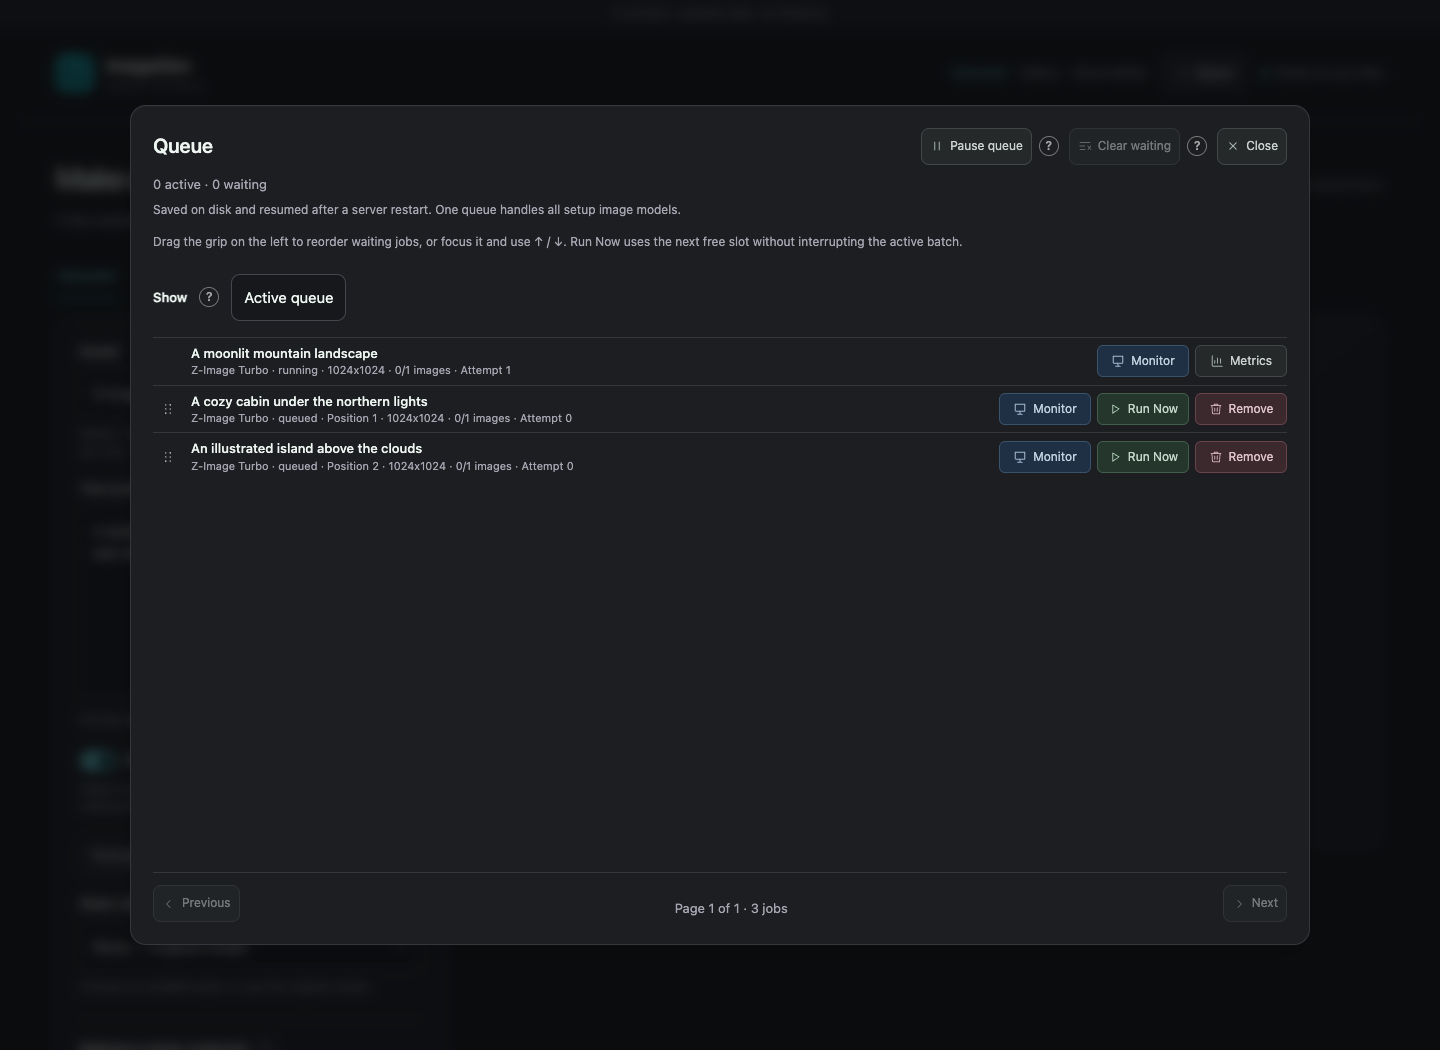
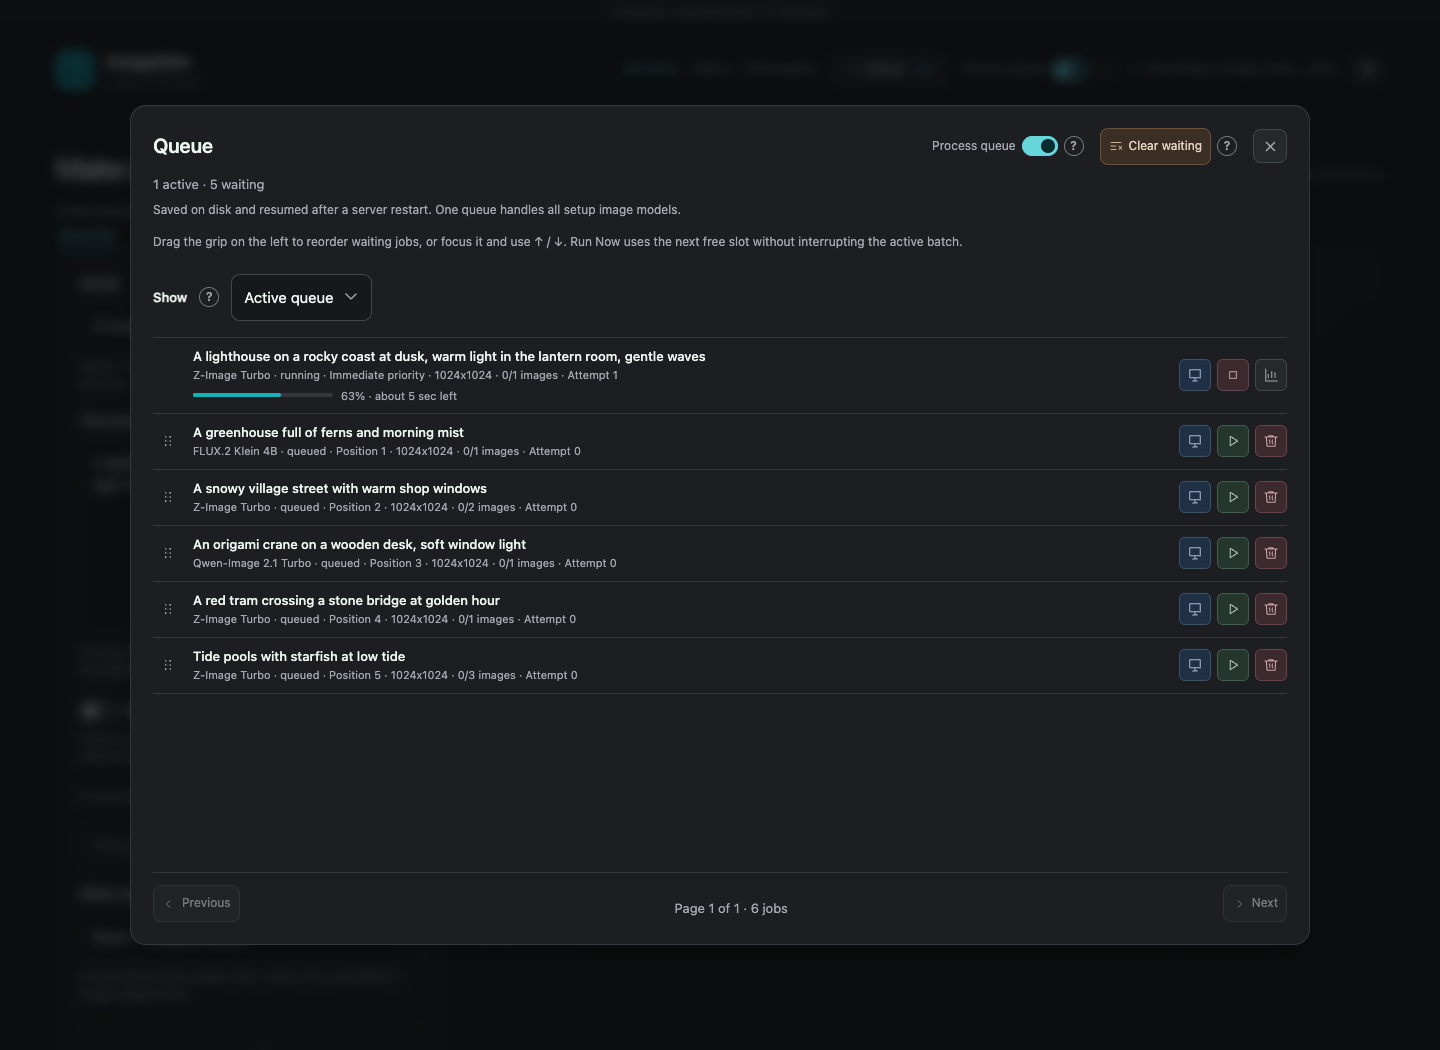
Refresh README, Quick Start and screenshots for today's UI
Document live progress, Live preview, Stop generating, Monitor in a new
tab, the Process queue switch, the Settings gear with Keep image weights
loaded, and the gallery viewer. Regenerate the four approved screenshots
from a fixture run with a fake model and procedural images.

diff --git a/QUICKSTART.md b/QUICKSTART.md
@@ -38,7 +38,7 @@ Keep this terminal open, wait for startup to finish, then open **[http://localho
 
 1. In **Generate**, enter: **A watercolor fox in a snowy forest, soft morning light**.
 2. Choose **Quick draft · 512 × 512**, keep **Number of images** at **1**, and leave the other settings at their defaults.
-3. Click **Generate image**. Follow progress in the preview, then view or download the result. Your image is also saved automatically.
+3. Click **Generate image**. A percentage and time left appear under the preview and in the header. Switch on **Live preview** before generating to watch the image form, or choose **Stop generating** to cancel. When it finishes, view or download the result; it's also saved automatically.
 
 Grey question-mark icons explain the controls. These are the main choices to try next:
 
@@ -49,13 +49,14 @@ Grey question-mark icons explain the controls. These are the main choices to try
 | **Number of images** | Makes 1–5 options with different seeds. |
 | **Prompt expansion** | Adds descriptive detail. Use **Preview expansion** to review it first. |
 | **Different compositions with LLM** | Explores different compositions for a multi-image batch with expansion enabled. |
+| **Live preview** | Shows the image as it renders. Off by default because each preview adds decoding time. |
 | **Generate immediately** | Runs next after the active batch; switch off to join the ordinary queue. |
 
-Open **Queue** in the header to follow jobs, drag waiting items into order or choose **Run Now**. An active batch always finishes first.
+Open **Queue** in the header to see each job's progress, drag waiting jobs into order or choose **Run Now**; an active batch always finishes first. **Monitor** opens a job in a new tab with its prompt and settings filled in. Switch off **Process queue** in the header to pause waiting work. The gear icon opens **Settings**; see the [manual](MANUAL.md#settings) before turning on **Keep image weights loaded between generations**.
 
 ## 4. Find images and edit photos
 
-Open **Gallery** to search by prompt or tags, download results and reuse settings. **Delete image** asks for confirmation. The generator footer shows the default save folder; use **Save location** to choose another folder for a request.
+Open **Gallery** to search by prompt or tags. Click an image or its caption to open it, then download it, reuse its settings or expand it to fill the window. **Delete image** asks for confirmation. The generator footer shows the default save folder; use **Save location** to choose another folder for a request.
 
 To edit a photo, stop the app with Ctrl+C, add an editing model with `make setup MODEL=flux2-klein-4b`, then run `make serve` again. Choose **Edit photo**, select the editor, upload a photo and describe the change. Leave resolution on **Auto** to follow the source size. You can also choose **Edit photo** from a gallery image. See [photo editing](MANUAL.md#edit-an-existing-photo) for Qwen selected-area edits and preservation controls.
 
@@ -78,7 +79,13 @@ IMAGEGEN_JOB_ID="paste-the-returned-id-here"
 curl --fail-with-body "http://localhost:5742/v1/jobs/$IMAGEGEN_JOB_ID"
 ```
 
-When `status` is `succeeded`, open a `result.data[]` image's `url`, or find its saved `file_path`. On failure, read `error`. See the [API reference](docs/api.md) for all settings and endpoints.
+While it runs, `progress.percent` shows how far it has got. When `status` is `succeeded`, open a `result.data[]` image's `url`, or find its saved `file_path`. On failure, read `error`. To cancel a waiting or running job:
+
+```sh
+curl --fail-with-body -X DELETE "http://localhost:5742/v1/jobs/$IMAGEGEN_JOB_ID"
+```
+
+See the [API reference](docs/api.md) for all settings and endpoints.
 
 ## 6. Stop and come back later
 

diff --git a/README.md b/README.md
@@ -2,7 +2,7 @@
 
 Generate and edit images on your Apple Silicon Mac, using a webpage or API. Your models and images stay local, with a gallery to find your favourites and a queue for work you want to run later.
 
-![ImageGen webpage](docs/screenshots/generator.png)
+![ImageGen generator following a running job at 63%, with its live preview](docs/screenshots/generator.png)
 
 ## Get started
 
@@ -22,11 +22,13 @@ Open **[localhost:5742](http://localhost:5742/)** to generate your first image. 
 ## What you can do
 
 - **Generate options:** make 1–5 images from a description and compare the results.
+- **Watch it render:** a percentage and time left show under the preview, in the header and in the queue. Switch on **Live preview** to watch the image form, or choose **Stop generating** to cancel it.
 - **Develop your prompt:** an optional local language model adds detail about lighting, style and composition. Preview its suggestions or turn it off.
-- **Edit photos:** use Klein or Qwen to change an existing image. Qwen also supports selecting an area to edit.
+- **Edit photos:** use Klein or Qwen to change an existing image. With Qwen, paint over the area to change; the model is also told where your selection is.
 - **Try styles:** add compatible LoRA adapters with [`make setup-lora`](MANUAL.md#add-your-own-lora).
-- **Keep your favourites:** search the gallery by prompt or tags, download images, reuse settings or delete unwanted results with confirmation.
-- **Queue work:** save requests for later, drag jobs into order or choose **Run Now**. Waiting work survives restarts.
+- **Keep your favourites:** search the gallery by prompt or tags, open an image to view it fitted or full-window, download it, reuse settings or delete it with confirmation.
+- **Queue work:** save requests for later, drag jobs into order or choose **Run Now**. **Monitor** opens a job in a new tab with its settings filled in. Switch off **Process queue** to pause; waiting work survives restarts.
+- **Save reloads:** the gear icon opens **Settings**. **Keep image weights loaded between generations** keeps FLUX.2 Klein or Qwen-Image in memory for back-to-back images of the same model, then releases it.
 - **See resource use:** view CPU, memory, GPU, job logs and model load/unload history in Observability.
 
 Available models: **Z-Image Turbo**, **Chroma1-HD**, **Chroma1-Flash**, **FLUX.2 Klein 4B/9B** and **Qwen-Image 2.1 Turbo**. Set up the ones you want; the generator switches between them as jobs run. See [model details and licences](docs/setup.md#models-and-effective-settings) before commercial use.
@@ -52,12 +54,12 @@ For AI tools: [operating skill](skill/image-model-server/SKILL.md). For contribu
 <details>
 <summary>More screenshots</summary>
 
-![Compare image options](docs/screenshots/image-options.png)
+![Compare three image options](docs/screenshots/image-options.png)
 
 ![Search the gallery](docs/screenshots/gallery.png)
 
-![Manage the queue](docs/screenshots/queue.png)
+![Queue window with a running job's progress and waiting jobs](docs/screenshots/queue.png)
 
-Generator, gallery and queue screenshots use simulated demo data. The image-options screenshot is from a real Z-Image test; timings are not benchmarks.
+All screenshots use simulated demo data and fake rendering; percentages and timings are not benchmarks.
 
 </details>

diff --git a/MANUAL.md b/MANUAL.md
@@ -152,6 +152,8 @@ The LLM is instructed to keep framing and other details you've explicitly specif
 
 ![Multiple generated options with selectable previews](docs/screenshots/image-options.png)
 
+This screenshot uses simulated demonstration images; its timing is not a benchmark.
+
 ### Guide the result with a reference or style adapter
 
 A reference photo provides a visual starting point. **FLUX.2 Klein and Qwen-Image 2.1 Turbo** follow editing instructions such as “change the jacket to green.” With **Z-Image and Chroma**, the photo instead guides a variation, and **Keep the original** controls how much is preserved. The service keeps the photo's aspect ratio and lets you use generated images as the next reference. Use the dedicated **Edit photo** view to describe a change, specify what should stay the same, and optionally refine the instruction with a preservation-focused text LLM. With **Qwen**, paint or drag rectangles on the source preview to switch automatically to a selected-area edit; the service copies pixels outside the mask from the resized source. Klein supports whole-photo edits. Whole-photo editing does not guarantee exact identity or unchanged pixels.
@@ -268,7 +270,7 @@ The importer checks file format and model-family hints; it cannot guarantee exac
 
 The gallery brings together results from all supported models, including images saved to custom output folders. Search by prompt or tags, sort and browse pages, and open an image to see its settings, download it, edit its tags or use it as a starting point for another generation. Choose **Edit photo** to open the selected image directly in the Edit preview, even when a different model created it. The action is available whenever a setup model supports editing. Choose an editor if prompted, describe the change and submit; your original file stays unchanged. **Make a variation** and **Reuse settings** remain separate actions.
 
-Open **[Gallery](http://localhost:5742/gallery)** to search saved images by prompt or tags, browse pages, edit tags and reuse settings. Images and JSON settings are saved automatically in `<storage folder>/<model>/images`. The webpage footer shows the default save folder; **Save location** lets you override it for a request.
+Open **[Gallery](http://localhost:5742/gallery)** to search saved images by prompt or tags, browse pages, edit tags and reuse settings. Click a thumbnail or its caption to open an image: the viewer fits the whole photo, and the expand button in its corner fills the browser window (Escape or the same button returns to the details). Images and JSON settings are saved automatically in `<storage folder>/<model>/images`. The webpage footer shows the default save folder; **Save location** lets you override it for a request.
 
 To delete a result, open it in **Gallery**, choose **Delete image** below its file path, then review the thumbnail and prompt in the confirmation popup. **Cancel** or Escape keeps it; **Delete image** permanently removes the PNG, its JSON settings, tags and cached previews, including files in custom save folders. There is no undo. Uploaded references, other images and job history stay saved. If a waiting or running job uses the image, finish or cancel that job first. The gallery refreshes after deletion and moves back a page if necessary.
 
